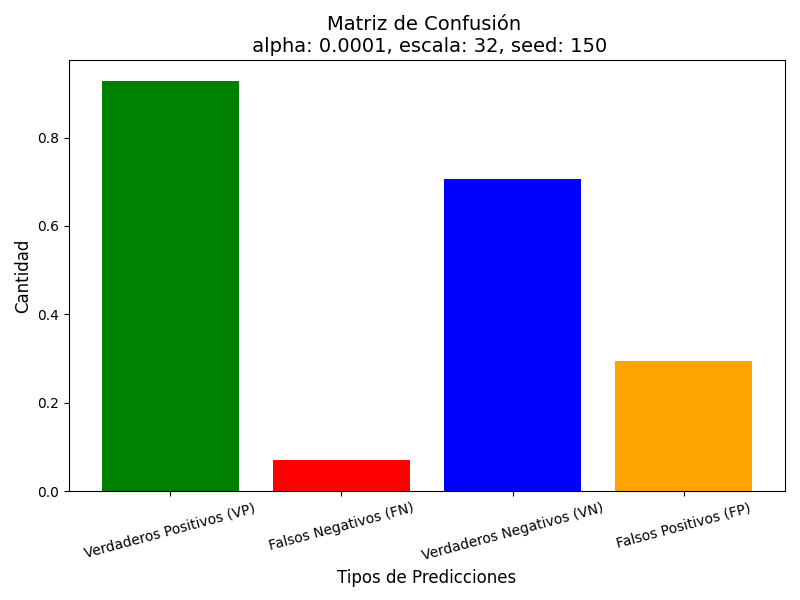
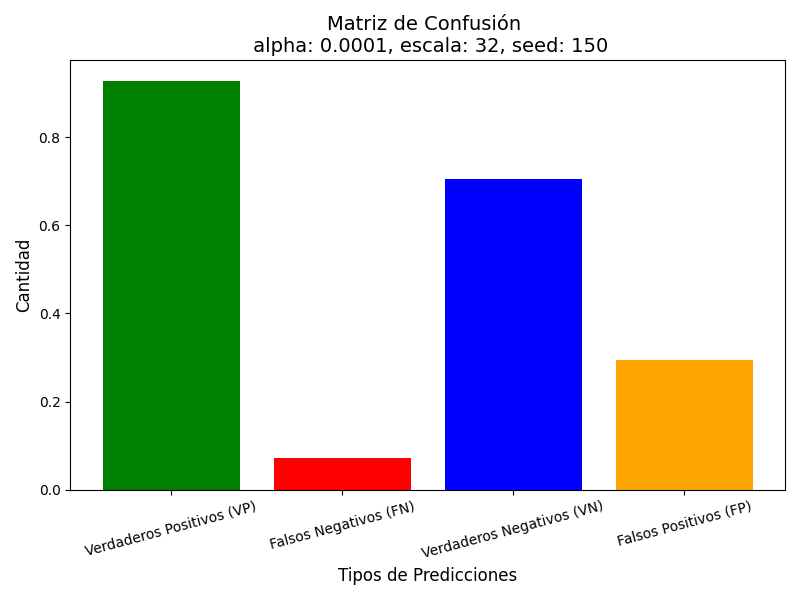
new alphas

diff --git a/entrenamiento.py b/entrenamiento.py
@@ -8,31 +8,32 @@ from ej6 import matriz_confusion
 def main():
     # 4x4s177, 8x8s79, 16x16s171, 32x32s150, 64x64s123, 128x128s105, 256x256s42
     #array = [(4,177),(8,79),(16,171),(32,150),(64,123),(128,105),(256,42)]
-    array = [(4,177),(8,79),(16,171),(32,150),(64,123),(128,105),(256,42)]
-    seeds = range(1,50)
-    for seed in seeds:
-    #[0.0000001,0.000001,0.00001,0.0001, 0.001, 0.01]
-        alpha_values = [0.0001]
-        
-        for alpha in alpha_values:
-            for Esc in array:
-                escala = Esc[0]
-                seed = Esc[1]
-                images, d = cargar_datos("/Users/nicolasfranke/Downloads/chest_xray/train/all", escala)#Poner path a una carpeta con todas las immagenes de train
-                images_test, d_test =  cargar_datos("/Users/nicolasfranke/Downloads/chest_xray/test/all", escala)
-                np.random.seed(seed)
-                b = np.random.randn(1)
-                w = np.random.randn(images[0].shape[0])
-                print("imagenes cargadas")
-                images_balanceadas, d_balanceado = balancear_datos(images, d)
-                w_estrella, b_estrella, errores_test, errores_train = gradiente_descendente(w, b, images_balanceadas, d_balanceado, alpha,images_test, d_test)
+    # (4,177,0.0001),(8,79,0.0001),(16,171,0.0001),(32,150,0.0001),(64,123,0.001),
+    array = [(128,105),(256,42)]
+    # seeds = range(1,50)
+    # for seed in seeds:
+    # 0.0000001,0.000001,0.00001,0.0001, 0.001, 0.01
+    alphas= [0.00075, 0.0005, 0.00025, 0.0001, 0.000075, 0.00005, 0.000025]
+    for alpha in alphas:
+        for Esc in array:
+            escala = Esc[0]
+            seed = Esc[1]
 
-                plot_error_curve(errores_train, alpha, "train", escala, seed)
-                plot_error_curve(errores_test, alpha, "test", escala, seed)
-                matriz_confusion(images_test,d_test, b_estrella,w_estrella,escala,alpha,seed)
+            images, d = cargar_datos("/Users/nicolasfranke/Downloads/chest_xray/train/all", escala)#Poner path a una carpeta con todas las immagenes de train
+            images_test, d_test =  cargar_datos("/Users/nicolasfranke/Downloads/chest_xray/test/all", escala)
+            np.random.seed(seed)
+            b = np.random.randn(1)
+            w = np.random.randn(images[0].shape[0])
+            print("imagenes cargadas")
+            images_balanceadas, d_balanceado = balancear_datos(images, d)
+            w_estrella, b_estrella, errores_test, errores_train = gradiente_descendente(w, b, images_balanceadas, d_balanceado, alpha,images_test, d_test)
 
-                print(f"Valor inicial de b: {b}")
-                print(f"Valor inicial de w: {w}")
+            plot_error_curve(errores_train, alpha, "train", escala, seed)
+            plot_error_curve(errores_test, alpha, "test", escala, seed)
+            matriz_confusion(images_test,d_test, b_estrella,w_estrella,escala,alpha,seed)
+
+            # print(f"Valor inicial de b: {b}")
+            # print(f"Valor inicial de w: {w}")
 
 if __name__ == "__main__":
     main()
